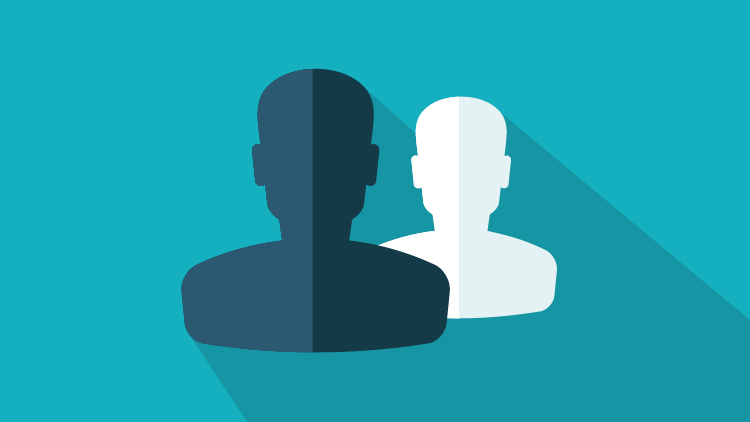
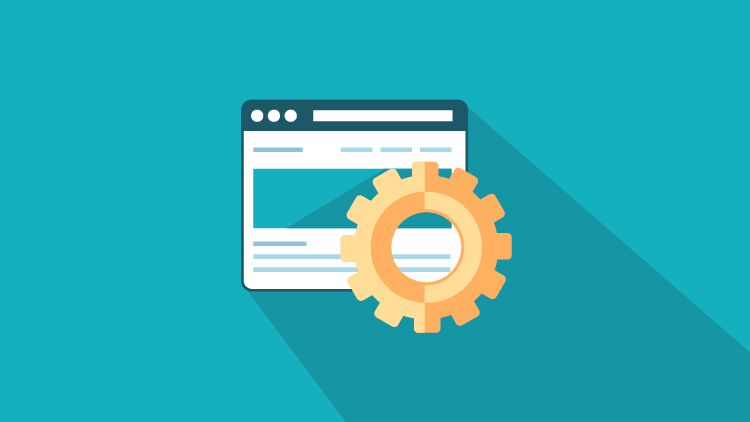
Portfolio update

Changed region(s): [[0.2147, 0.154, 1.0, 1.0]]

diff --git a/fr/index.html b/fr/index.html
@@ -20,7 +20,7 @@
     <link rel="alternate" hreflang="x-default" href="https://tommouquet.com/">
 
     <!-- Styles -->
-    <link rel="stylesheet" href="/style.css?v=8">
+    <link rel="stylesheet" href="/style.css?v=9">
 
     <link
         href="https://fonts.googleapis.com/css2?family=Montserrat:wght@400;500;600;700&family=Poppins:wght@400;500;600&display=swap"
@@ -34,7 +34,7 @@
     ></script>
 
     <!-- JavaScript -->
-    <script src="/script.js?v=6" defer></script>
+    <script src="/script.js?v=8" defer></script>
 </head>
 
 
@@ -231,7 +231,7 @@
                 <p>
                     Je suis développeur back-end Python, titulaire du titre
                     RNCP de niveau 6 « Développeur d'application Python »
-                    (OpenClassrooms, équivalent Bac+3/4). Je l'ai préparé en
+                    (OpenClassrooms). Je l'ai préparé en
                     parallèle de mon poste de motion designer 2D/3D chez
                     Cegedim / C-Media, où je crée depuis 2022 des contenus
                     pour des marques pharmaceutiques et cosmétiques.
@@ -492,7 +492,7 @@
                             pharmaceutiques et cosmétiques, de la conception et du
                             storyboard jusqu'à la livraison finale. Digitalisation des campagnes :
                             <strong>de 20&nbsp;% à 50&nbsp;%</strong>
-                            en cinq ans, porté par une demande en hausse.
+                            en cinq ans, portée par une demande en hausse.
                         </p>
                     </div>
                 </li>
@@ -575,9 +575,10 @@
 
                 <a
                     class="btn"
-                    href="/ressources/Tom_Mouquet_CV.pdf"
+                    href="/ressources/Tom_Mouquet_CV_Developpeur_Python.pdf"
                     target="_blank"
                     rel="noopener"
+                    data-download="Tom_Mouquet_CV_Developpeur_Python.pdf"
                 >
                     Télécharger mon CV
                 </a>

diff --git a/script.js b/script.js
@@ -107,7 +107,7 @@ function setupReveal() {
             .map((element) => ({ element, rect: element.getBoundingClientRect() }))
             .sort((a, b) => a.rect.top - b.rect.top || a.rect.left - b.rect.left)
             .forEach(({ element }, index) => {
-                element.style.setProperty("--reveal-delay", `${Math.min(index, 5) * 90}ms`);
+                element.style.setProperty("--reveal-delay", `${Math.min(index, 5) * 110}ms`);
                 element.dataset.reveal = "in";
                 revealObserver.unobserve(element);
             });
@@ -547,6 +547,28 @@ loadSkillsAnimation(
     "skills-02",
     assetUrl("ressources/animations/skills-02.json")
 );
+
+
+// -------------------------
+// CV : OUVERTURE ET TÉLÉCHARGEMENT
+// -------------------------
+
+// Le lien ouvre toujours le PDF dans un nouvel onglet (target="_blank") ;
+// au même clic, une copie du fichier est téléchargée sous le nom
+// indiqué par data-download. Sans JavaScript, le lien ouvre le PDF.
+document.querySelectorAll("a[data-download]").forEach((link) => {
+    link.addEventListener("click", () => {
+        const file = document.createElement("a");
+
+        file.href = link.href;
+        file.download = link.dataset.download;
+        file.hidden = true;
+
+        document.body.append(file);
+        file.click();
+        file.remove();
+    });
+});
 
 
 // -------------------------

diff --git a/index.html b/index.html
@@ -20,7 +20,7 @@
     <link rel="alternate" hreflang="x-default" href="https://tommouquet.com/">
 
     <!-- Styles -->
-    <link rel="stylesheet" href="style.css?v=8">
+    <link rel="stylesheet" href="style.css?v=9">
 
     <link
         href="https://fonts.googleapis.com/css2?family=Montserrat:wght@400;500;600;700&family=Poppins:wght@400;500;600&display=swap"
@@ -34,7 +34,7 @@
     ></script>
 
     <!-- JavaScript -->
-    <script src="script.js?v=6" defer></script>
+    <script src="script.js?v=8" defer></script>
 </head>
 
 
@@ -231,7 +231,7 @@
                 <p>
                     I'm a Python back-end developer holding the French
                     RNCP level 6 qualification “Python Application Developer”
-                    (OpenClassrooms, bachelor's level). I earned it alongside my
+                    (OpenClassrooms). I earned it alongside my
                     job as a 2D/3D motion designer at Cegedim / C-Media, where
                     I have been creating content for pharmaceutical and
                     cosmetics brands since 2022.
@@ -577,6 +577,7 @@
                     href="ressources/Tom_Mouquet_CV_Developpeur_Python.pdf"
                     target="_blank"
                     rel="noopener"
+                    data-download="Tom_Mouquet_CV_Developpeur_Python.pdf"
                 >
                     Download my CV
                 </a>

diff --git a/style.css b/style.css
@@ -2767,17 +2767,26 @@ footer {
    de « transform » : l'effet de survol des cartes reste intact.
    ========================================= */
 
+/* Réglages : amplitude du mouvement et durée de l'apparition
+   (le décalage entre deux blocs se règle dans script.js) */
+:root {
+    --reveal-distance: 40px;
+    --reveal-duration: 1.1s;
+}
+
+
+
 .js-reveal [data-reveal="hidden"] {
     opacity: 0;
 
-    translate: 0 28px;
+    translate: 0 var(--reveal-distance);
 }
 
 
 
 .js-reveal [data-reveal="in"] {
     animation:
-        reveal-up 0.8s cubic-bezier(0.22, 1, 0.36, 1) var(--reveal-delay, 0ms) backwards;
+        reveal-up var(--reveal-duration) cubic-bezier(0.25, 1, 0.5, 1) var(--reveal-delay, 0ms) backwards;
 }
 
 
@@ -2786,7 +2795,7 @@ footer {
 
     from {
         opacity: 0;
-        translate: 0 28px;
+        translate: 0 var(--reveal-distance);
     }
 
     to {
